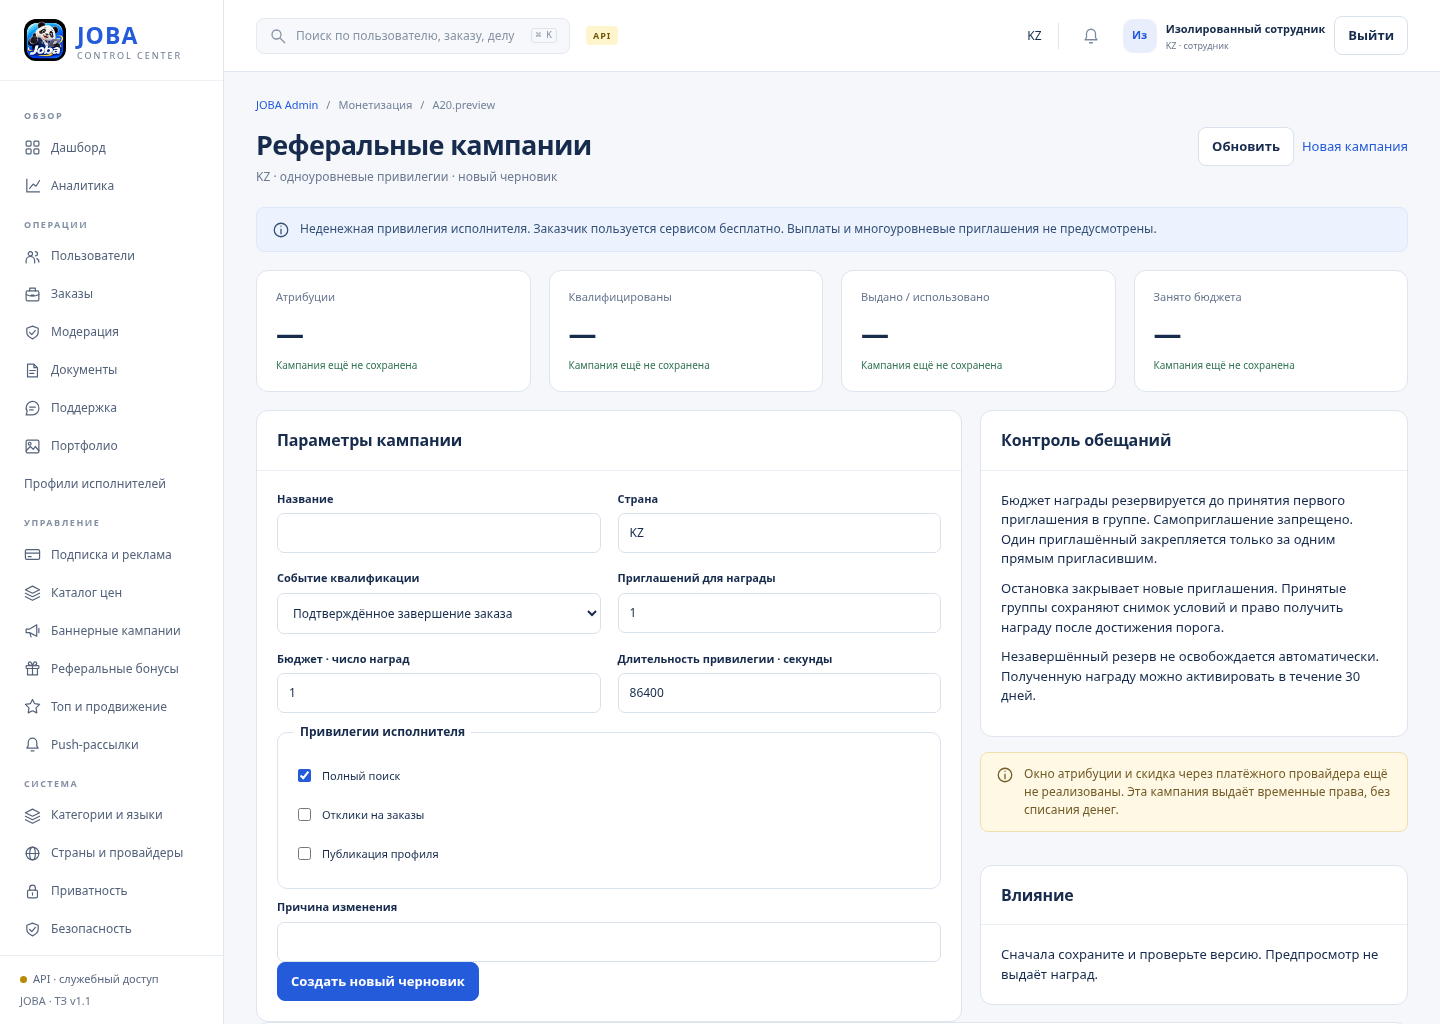
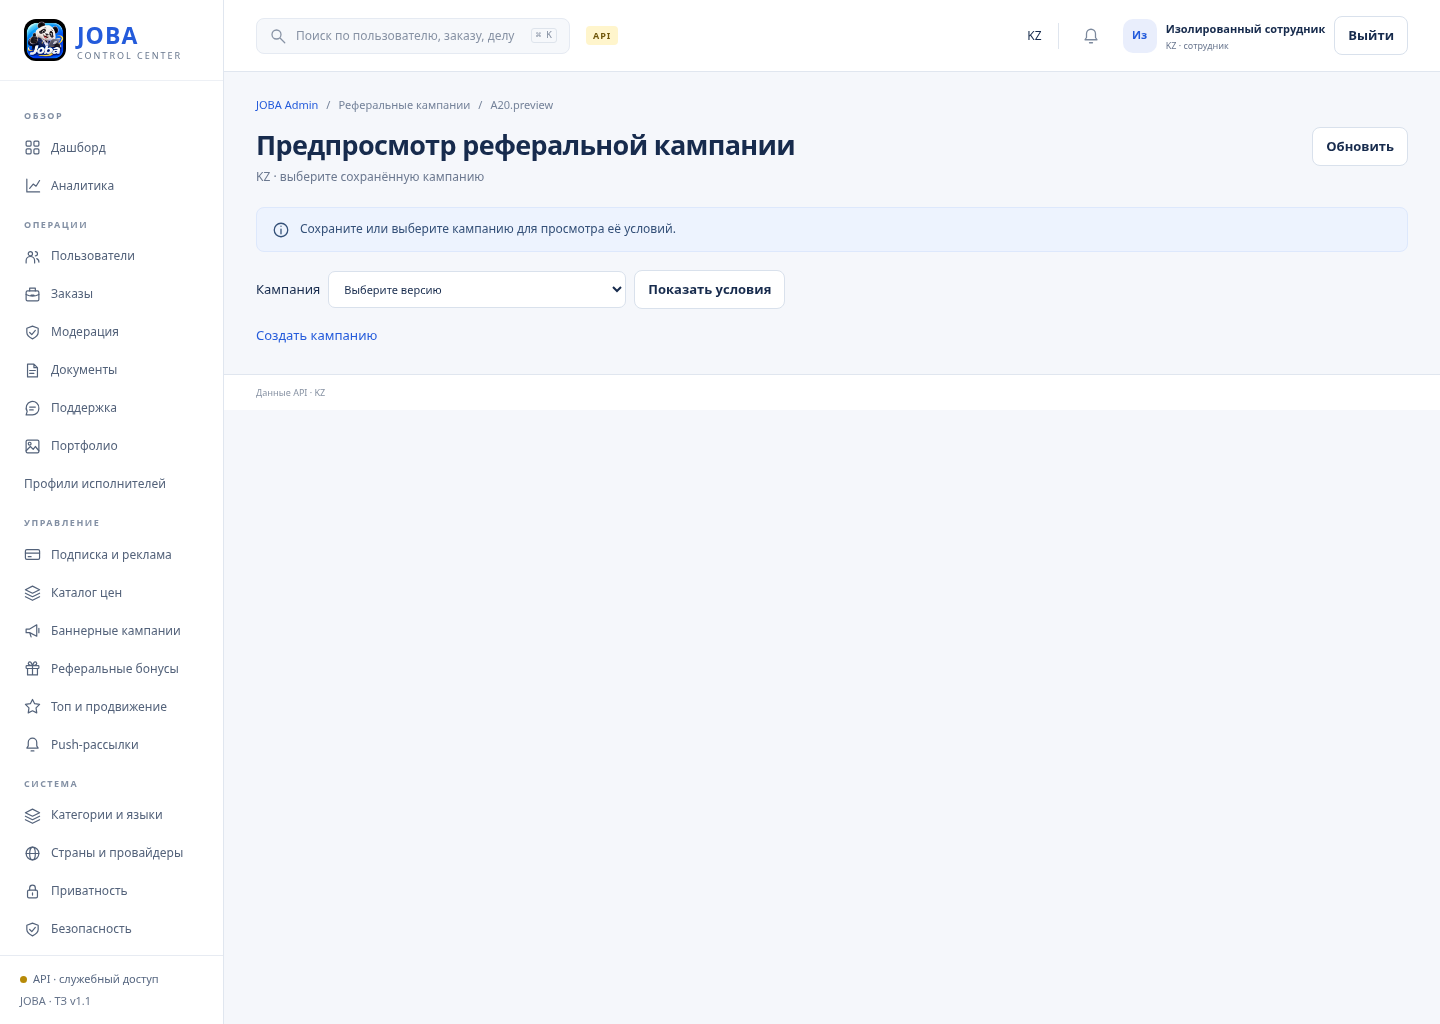
feat: add dedicated referral terms preview and compact promise controls

diff --git a/apps/admin/referral-workspace.js b/apps/admin/referral-workspace.js
@@ -3,7 +3,10 @@ export async function referralWorkspace({key,api,esc,card,note,tablecard,country
  const params=new URLSearchParams(location.hash.split('?')[1]||''),list=await api('/admin/referral-campaigns?'+new URLSearchParams({limit:'20',...(params.get('cursor')?{cursor:params.get('cursor')}:{})}));
  const selected=params.get('id')||(!params.has('new')?list.items.find(x=>x.status==='effective')?.id:undefined),r=selected?await api('/admin/referral-campaigns/'+encodeURIComponent(selected)):undefined,p=r?.payload||{},own=r?.owner===actorId&&r.status==='draft',m=r?.metrics;
  const input=(label,name,value,type='text',attrs='')=>`<div class="formfield"><label for="referral-${name}">${label}</label><input id="referral-${name}" name="${name}" value="${esc(value??'')}" type="${type}" ${attrs}></div>`;
- return {key,id:key==='referral-preview'?'A20.preview':'A20',title:'Реферальные кампании',subtitle:country+' · одноуровневые привилегии · '+(r?'Версия '+r.version:'новый черновик'),section:'Монетизация',actions:'<button id="refresh-data">Обновить</button><a class="btn primary" href="#referrals?new=1">Новая кампания</a>',body:()=>`${note('Неденежная привилегия исполнителя. Заказчик пользуется сервисом бесплатно. Выплаты и многоуровневые приглашения не предусмотрены.')}<div class="grid cols4 mt">${[['Атрибуции',m?.attributions],['Квалифицированы',m?.qualified],['Выдано / использовано',m?m.issued+' / '+m.redeemed:undefined],['Занято бюджета',m?m.budget_used+' / '+p.budget_units:undefined]].map(([label,value])=>`<section class="card metric"><div class="metric-label">${esc(label)}</div><div class="metric-num">${esc(value??'—')}</div><div class="metric-trend">${m?'По выбранной кампании':'Кампания ещё не сохранена'}</div></section>`).join('')}</div><div class="grid split mt"><form id="referral-editor" class="stack">${card('Параметры кампании',`<div class="formgrid">${input('Название','title',r?.title,'text','required minlength="3" maxlength="120"')}${input('Страна','country',country,'text','readonly')}<div class="formfield"><label for="referral-event">Событие квалификации</label><select id="referral-event" name="qualifying_event">${Object.entries(events).map(([k,v])=>`<option value="${k}" ${p.qualifying_event===k?'selected':''}>${v}</option>`).join('')}</select></div>${input('Приглашений для награды','threshold',p.threshold??1,'number','required min="1" max="100"')}${input('Бюджет · число наград','budget_units',p.budget_units??1,'number','required min="1" max="1000000"')}${input('Длительность привилегии · секунды','reward_duration_seconds',p.reward_duration_seconds??86400,'number','required min="60" max="31622400"')}</div><fieldset><legend>Привилегии исполнителя</legend>${Object.entries(caps).map(([k,v])=>`<label class="check"><input name="capabilities" type="checkbox" value="${k}" ${(p.capabilities||['search_full']).includes(k)?'checked':''}> ${v}</label>`).join('')}</fieldset>${input('Причина изменения','reason','','text','required minlength="10" maxlength="1000"')}<div class="actions"><button class="primary">${own?'Сохранить черновик':'Создать новый черновик'}</button></div><div role="alert"></div>`)}</form><div class="stack">${card('Контроль обещаний','<p>Бюджет награды резервируется до принятия первого приглашения в группе. Самоприглашение запрещено. Один приглашённый закрепляется только за одним прямым пригласившим.</p><p>Остановка закрывает новые приглашения. Принятые группы сохраняют снимок условий и право получить награду после достижения порога.</p><p>Незавершённый резерв не освобождается автоматически. Полученную награду можно активировать в течение 30 дней.</p>')}${note('Окно атрибуции и скидка через платёжного провайдера ещё не реализованы. Эта кампания выдаёт временные права, без списания денег.','warn')}${r?card('Проверка и публикация',`<form id="referral-command" class="stack"><label for="referral-command-reason">Основание действия</label><textarea id="referral-command-reason" name="reason" required minlength="10" maxlength="1000"></textarea><div class="actions"><button value="validate">Проверить</button><button value="preview">Предпросмотр</button>${r.status==='draft'?'<button class="primary" value="publish">Опубликовать другим сотрудником</button>':r.status==='effective'?'<button value="stop">Остановить кампанию</button>':''}<button value="rollback">Черновик отката</button></div><div role="alert"></div><div role="status"></div></form>`):''}${card('Влияние','<div id="referral-impact">Сначала сохраните и проверьте версию. Предпросмотр не выдаёт наград.</div>')}</div></div>${tablecard('Версии кампаний',['Название','Состояние','Порог / бюджет',''],list.items.map(x=>[esc(x.title),esc(states[x.status]||x.status),esc(x.payload.threshold+' / '+x.payload.budget_units),`<a href="#referrals?id=${encodeURIComponent(x.id)}">Открыть →</a>`]))}${list.meta?.next_cursor?`<a class="btn" href="#referrals?cursor=${encodeURIComponent(list.meta.next_cursor)}">Следующая страница</a>`:''}`,
+ const row=(label,value)=>`<div class="info-row"><span>${label}</span><b>${esc(value)}</b></div>`;
+ const duration=seconds=>new Intl.NumberFormat('ru',{maximumFractionDigits:2}).format(seconds/3600)+' ч';
+ if(key==='referral-preview')return {key,id:'A20.preview',title:'Предпросмотр реферальной кампании',subtitle:r?`${r.title} · версия ${r.version} · ${country}`:country+' · выберите сохранённую кампанию',section:'Реферальные кампании',actions:'<button id="refresh-data">Обновить</button>',body:()=>r?`<div class="referral-layout">${note('Предпросмотр сохранённых условий. Просмотр и проверка не принимают приглашения и не выдают награды.','warn')}<div class="grid split">${card('Условия для участника',`<div class="referral-offer"><span class="eyebrow">ПРИГЛАСИТЕ ДРУЗЕЙ В JOBA</span><h2>${esc(p.threshold)} приглашений</h2><p class="referral-benefit">${esc((p.capabilities||[]).map(x=>caps[x]||x).join(' · '))}</p><p class="tiny muted">Временная привилегия на ${esc(duration(p.reward_duration_seconds))}</p><p class="tiny muted referral-conditions">Приглашение засчитывается: ${esc(events[p.qualifying_event]||p.qualifying_event)}. Один прямой пригласивший, без денежных выплат. Доступные награды активируются в течение 30 дней.</p></div>${row('Что не раскрывается','Контакты и чужие покупки')}${row('Модель','Один уровень · без выплат')}${row('Прогресс участника','Здесь не отображается: участник не выбран')}`)}${card('Проверка перед публикацией',`${row('Страна / привилегия',country+' / исполнителю')}${row('Квалифицирующее событие',events[p.qualifying_event]||p.qualifying_event)}${row('Бюджет',p.budget_units+' наград')}${row('Занято / в резерве',m.budget_used+' / '+m.reserved)}${row('Срок награды',duration(p.reward_duration_seconds))}${row('Состояние',states[r.status]||r.status)}${row('Независимая публикация',r.published_by&&r.published_by!==r.owner?'Подтверждена':'Не подтверждена')}<form id="referral-preview-check" class="stack mt"><label for="referral-preview-reason">Основание проверки</label><textarea id="referral-preview-reason" name="reason" required minlength="10" maxlength="1000"></textarea><button class="primary">Проверить сохранённую версию</button><div role="alert"></div><div role="status"></div></form><a class="btn small" href="#referrals?id=${encodeURIComponent(r.id)}">Вернуться к условиям</a>`)}</div></div>`:`${note('Сохраните или выберите кампанию для просмотра её условий.')}<form id="referral-preview-select" class="filters"><label for="referral-preview-id">Кампания</label><select id="referral-preview-id" name="id" required><option value="">Выберите версию</option>${list.items.map(x=>`<option value="${esc(x.id)}">${esc(x.title)} · ${esc(states[x.status]||x.status)} · v${x.version}</option>`).join('')}</select><button ${list.items.length?'':'disabled'}>Показать условия</button></form><a class="btn" href="#referrals?new=1">Создать кампанию</a>${list.meta?.next_cursor?`<a class="btn" href="#referral-preview?cursor=${encodeURIComponent(list.meta.next_cursor)}">Следующая страница</a>`:''}`,bind(){const choose=document.getElementById('referral-preview-select');if(choose)choose.onsubmit=e=>{e.preventDefault();location.hash='referral-preview?id='+encodeURIComponent(new FormData(choose).get('id'));};const check=document.getElementById('referral-preview-check');if(check)check.onsubmit=async e=>{e.preventDefault();const button=check.querySelector('button');button.disabled=true;check.querySelector('[role=alert]').textContent='';check.querySelector('[role=status]').textContent='';try{const result=await api('/admin/referral-campaigns/'+r.id+'/preview','POST',{expected_version:r.version,reason:new FormData(check).get('reason')});check.querySelector('[role=status]').textContent=`Версия ${result.source_version} проверена. Активных аккаунтов в стране: ${result.country_active_accounts}. Награды не выданы.`;}catch(error){check.querySelector('[role=alert]').textContent=error.message;}finally{button.disabled=false;}};}};
+ return {key,id:key==='referral-preview'?'A20.preview':'A20',title:'Реферальные кампании',subtitle:country+' · одноуровневые привилегии · '+(r?'Версия '+r.version:'новый черновик'),section:'Монетизация',actions:'<button id="refresh-data">Обновить</button><a class="btn primary" href="#referrals?new=1">Новая кампания</a>',body:()=>`${note('Неденежная привилегия исполнителя. Заказчик пользуется сервисом бесплатно. Выплаты и многоуровневые приглашения не предусмотрены.')}<div class="grid cols4 mt">${[['Атрибуции',m?.attributions],['Квалифицированы',m?.qualified],['Выдано / использовано',m?m.issued+' / '+m.redeemed:undefined],['Занято бюджета',m?m.budget_used+' / '+p.budget_units:undefined]].map(([label,value])=>`<section class="card metric"><div class="metric-label">${esc(label)}</div><div class="metric-num">${esc(value??'—')}</div><div class="metric-trend">${m?'По выбранной кампании':'Кампания ещё не сохранена'}</div></section>`).join('')}</div><div class="grid split mt referral-layout"><form id="referral-editor" class="stack">${card('Параметры кампании',`<div class="formgrid">${input('Название','title',r?.title,'text','required minlength="3" maxlength="120"')}${input('Страна','country',country,'text','readonly')}<div class="formfield"><label for="referral-event">Событие квалификации</label><select id="referral-event" name="qualifying_event">${Object.entries(events).map(([k,v])=>`<option value="${k}" ${p.qualifying_event===k?'selected':''}>${v}</option>`).join('')}</select></div>${input('Приглашений для награды','threshold',p.threshold??1,'number','required min="1" max="100"')}${input('Бюджет · число наград','budget_units',p.budget_units??1,'number','required min="1" max="1000000"')}${input('Длительность привилегии · секунды','reward_duration_seconds',p.reward_duration_seconds??86400,'number','required min="60" max="31622400"')}</div><fieldset><legend>Привилегии исполнителя</legend>${Object.entries(caps).map(([k,v])=>`<label class="check"><input name="capabilities" type="checkbox" value="${k}" ${(p.capabilities||['search_full']).includes(k)?'checked':''}> ${v}</label>`).join('')}</fieldset>${input('Причина изменения','reason','','text','required minlength="10" maxlength="1000"')}<div class="actions"><button class="primary">${own?'Сохранить черновик':'Создать новый черновик'}</button></div><div role="alert"></div>`)}</form><div class="stack">${card('Контроль обещаний',`${row('Резерв перед порогом','До первого приглашения группы')}${row('Один приглашённый','Один прямой пригласивший')}${row('Самоприглашение','Запрещено')}${row('Новые атрибуции при лимите','Остановить до фиксации')}${row('Остановка кампании','Принятые обещания сохраняются')}${r?`<a class="price-primary mt" href="#referral-preview?id=${encodeURIComponent(r.id)}">Предпросмотр условий →</a>`:'<p class="tiny muted mt">Сохраните кампанию для предпросмотра условий.</p>'}`)}${note('Окно атрибуции и скидка через платёжного провайдера ещё не реализованы. Эта кампания выдаёт временные права, без списания денег.','warn')}${r?card('Проверка и публикация',`<form id="referral-command" class="stack"><label for="referral-command-reason">Основание действия</label><textarea id="referral-command-reason" name="reason" required minlength="10" maxlength="1000"></textarea><div class="actions"><button value="validate">Проверить</button><button value="preview">Предпросмотр</button>${r.status==='draft'?'<button class="primary" value="publish">Опубликовать другим сотрудником</button>':r.status==='effective'?'<button value="stop">Остановить кампанию</button>':''}<button value="rollback">Черновик отката</button></div><div role="alert"></div><div role="status"></div></form>`):''}${card('Влияние','<div id="referral-impact">Сначала сохраните и проверьте версию. Предпросмотр не выдаёт наград.</div>')}</div></div>${tablecard('Версии кампаний',['Название','Состояние','Порог / бюджет',''],list.items.map(x=>[esc(x.title),esc(states[x.status]||x.status),esc(x.payload.threshold+' / '+x.payload.budget_units),`<a href="#referrals?id=${encodeURIComponent(x.id)}">Открыть →</a>`]),'',`${list.items.length} записей · ${list.meta?.next_cursor?'Есть следующая страница':'Конец списка'}`)}${list.meta?.next_cursor?`<a class="btn" href="#referrals?cursor=${encodeURIComponent(list.meta.next_cursor)}">Следующая страница</a>`:''}`,
  bind(){const form=document.getElementById('referral-editor'),commands=document.getElementById('referral-command');let dirty=false,busy=false;
  form.oninput=()=>{dirty=true;if(commands){commands.querySelectorAll('button').forEach(b=>b.disabled=true);commands.querySelector('[role=status]').textContent='Сохраните изменения перед проверкой.';}};
  form.onsubmit=async e=>{e.preventDefault();if(busy)return;const data=new FormData(form),values=Object.fromEntries(data),capabilities=data.getAll('capabilities');if(!capabilities.length){form.querySelector('[role=alert]').textContent='Выберите хотя бы одну привилегию.';return;}const payload={threshold:Number(values.threshold),budget_units:Number(values.budget_units),reward_duration_seconds:Number(values.reward_duration_seconds),qualifying_event:values.qualifying_event,capabilities};const controls=[...form.querySelectorAll('input,select,button')];busy=true;controls.forEach(x=>x.disabled=true);form.querySelector('[role=alert]').textContent='';try{const saved=await api('/admin/referral-campaigns'+(own?'/'+r.id:''),own?'PATCH':'POST',{title:values.title,reason:values.reason,payload,...(own?{expected_version:r.version}:{})});if(selected===saved.id)await onRefresh();else location.hash='referrals?id='+encodeURIComponent(saved.id);}catch(error){form.querySelector('[role=alert]').textContent=error.message;}finally{busy=false;controls.forEach(x=>x.disabled=false);}};

diff --git a/apps/admin/styles.css b/apps/admin/styles.css
@@ -23,3 +23,5 @@
 .category-workspace{column-gap:14px}.category-workspace .cardhead{padding:15px 18px}.category-workspace .cardhead h2{font-size:14px}.category-workspace .cardbody{padding:16px 18px}.category-workspace .formfield input,.category-workspace .formfield select{font-size:11px}.category-workspace .formgrid{gap:17px 12px}.category-workspace .treeitem{color:#53627A}.category-workspace .treeitem.selected{color:#245BDB;background:#EAF0FE}
 
 #referral-editor fieldset{border:1px solid var(--line,#dbe3f2);border-radius:10px;padding:12px 16px;margin:10px 0;min-width:0}#referral-editor legend{font-size:12px;font-weight:700;padding:0 6px}#referral-editor .check{display:flex;align-items:center;gap:8px;margin:6px 0}#referral-editor .check input{width:auto;min-height:0}
+
+.referral-layout .cardhead{padding:15px 18px}.referral-layout .cardhead h2{font-size:14px}.referral-layout .cardbody{padding:16px 18px}.referral-layout .formgrid{gap:16px 12px}.referral-layout .formfield input,.referral-layout .formfield select{font-size:11px}.referral-layout .info-row b{font-weight:400;max-width:60%;text-align:right}.referral-layout .info-row{font-size:11px;gap:16px}.referral-offer{background:#F2F6FE;border-radius:12px;padding:25px}.referral-offer h2{font-size:27px;margin-top:10px}.referral-benefit{font-size:17px;margin-top:7px}.referral-conditions{margin:20px 0 0}.referral-layout .btn{display:inline-flex;margin-top:14px;padding:8px 12px;border:1px solid #D9E1EC;border-radius:8px}
